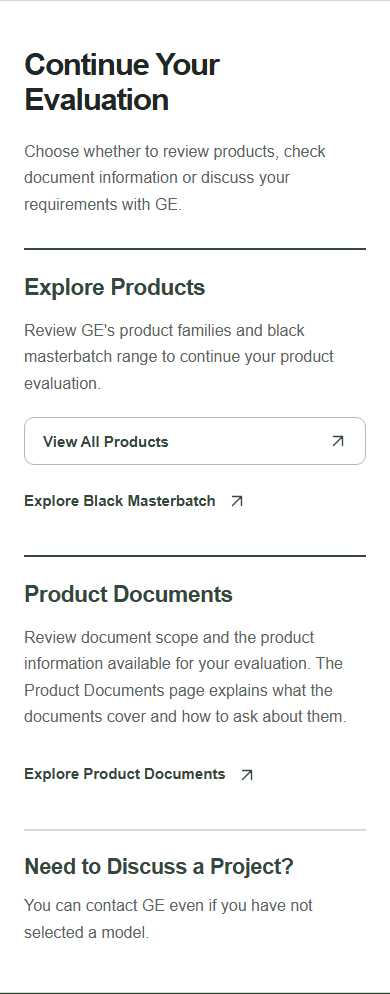
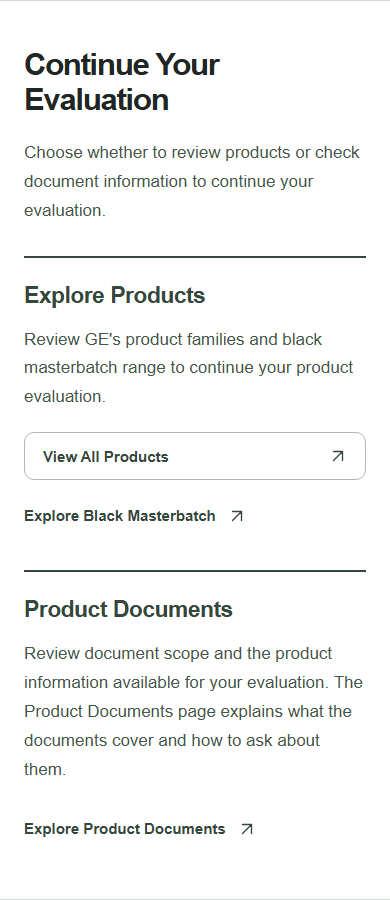
Refine P008 application visuals and evaluation paths

Changed region(s): [[0.0615, 0.4978, 0.9231, 0.9644], [0.0615, 0.0311, 0.9231, 0.4667], [0.0, 0.9956, 1.0, 1.0]]

diff --git a/planning/visuals/P008/p008-visual.html b/planning/visuals/P008/p008-visual.html
@@ -1,6 +1,6 @@
 <!doctype html><html lang="en"><head><meta charset="utf-8"><meta name="viewport" content="width=device-width, initial-scale=1"><title>Masterbatch Application Information | GE Chemical</title><meta name="description" content="Find masterbatch application topics for film, injection molding, extrusion and recycled PE/PP. Continue to GE products, document information or inquiry."><link rel="icon" href="../P001/assets/ge-brandmark-candidate.png"><link rel="stylesheet" href="p008-visual.css"></head><body><header class="site-header" data-shared-chrome><div class="shell header-inner"><a class="brand" href="/" aria-label="GE Chemical homepage"><img src="../P001/assets/ge-logo-candidate.png" alt="GE Chemical &amp; Polymer Group Co., Ltd."></a><nav class="desktop-nav" aria-label="Primary navigation"><a href="/products/black-masterbatch">Black Masterbatch</a><a href="/products">Products</a><a href="/applications" aria-current="page">Applications</a><a href="/about">About GE</a></nav><div class="tablet-inquiry"><a class="btn primary header-cta" href="/rfq">Discuss Your Requirements<svg class="ui-icon" aria-hidden="true" focusable="false" xmlns="http://www.w3.org/2000/svg" viewBox="0 0 24 24" fill="none" stroke="currentColor" stroke-width="1.8" stroke-linecap="round" stroke-linejoin="round"><path d="M6 18 18 6M6 6h12v12"/></svg></a></div><details class="mobile-menu"><summary>Menu <span class="menu-open"><svg class="ui-icon" aria-hidden="true" focusable="false" xmlns="http://www.w3.org/2000/svg" viewBox="0 0 24 24" fill="none" stroke="currentColor" stroke-width="1.8" stroke-linecap="round" stroke-linejoin="round"><path d="M4 6h16M4 12h16M4 18h16"/></svg></span><span class="menu-close"><svg class="ui-icon" aria-hidden="true" focusable="false" xmlns="http://www.w3.org/2000/svg" viewBox="0 0 24 24" fill="none" stroke="currentColor" stroke-width="1.8" stroke-linecap="round" stroke-linejoin="round"><path d="m6 6 12 12M18 6 6 18"/></svg></span></summary><nav aria-label="Mobile navigation"><a href="/products/black-masterbatch">Black Masterbatch</a><a href="/products">Products</a><a href="/applications" aria-current="page">Applications</a><a href="/about">About GE</a><a class="btn primary header-cta" href="/rfq">Discuss Your Requirements<svg class="ui-icon" aria-hidden="true" focusable="false" xmlns="http://www.w3.org/2000/svg" viewBox="0 0 24 24" fill="none" stroke="currentColor" stroke-width="1.8" stroke-linecap="round" stroke-linejoin="round"><path d="M6 18 18 6M6 6h12v12"/></svg></a></nav></details></div></header><main><section class="hero module"><div class="shell hero-layout"><div class="hero-copy"><h1>Masterbatch Application Information</h1>
 <p>Explore the application topic closest to your project, then continue to relevant GE product information, document information or a discussion with our team.</p>
-</div><div class="topic-art" aria-hidden="true"><div class="art-cross"></div><span class="art-node"><svg class="ui-icon" aria-hidden="true" focusable="false" xmlns="http://www.w3.org/2000/svg" viewBox="0 0 24 24" fill="none" stroke="currentColor" stroke-width="1.8" stroke-linecap="round" stroke-linejoin="round"><ellipse cx="7" cy="12" rx="4" ry="8"/><ellipse cx="7" cy="12" rx="1.2" ry="3"/><path d="M7 4h9c3 0 5 4 5 8s-2 8-5 8H7m14-8v8h-5"/></svg></span><span class="art-node"><svg class="ui-icon" aria-hidden="true" focusable="false" xmlns="http://www.w3.org/2000/svg" viewBox="0 0 24 24" fill="none" stroke="currentColor" stroke-width="1.8" stroke-linecap="round" stroke-linejoin="round"><path d="M3 20h18M4 20V6h5v14M15 20V6h5v14M9 10h6m-3-7v7m-3 6h6"/><path d="M10 3h4m-3 9h2v4h-2z"/></svg></span><span class="art-node"><svg class="ui-icon" aria-hidden="true" focusable="false" xmlns="http://www.w3.org/2000/svg" viewBox="0 0 24 24" fill="none" stroke="currentColor" stroke-width="1.8" stroke-linecap="round" stroke-linejoin="round"><path d="M3 9h11v6H3zM14 10h4v4h-4M18 12h4M5 9V5h6v4"/><path d="M5 18h9m-6-3v3m6-3v3"/></svg></span><span class="art-node"><svg class="ui-icon" aria-hidden="true" focusable="false" xmlns="http://www.w3.org/2000/svg" viewBox="0 0 24 24" fill="none" stroke="currentColor" stroke-width="1.8" stroke-linecap="round" stroke-linejoin="round"><path d="m8 4 4-2 4 7m-4-7 4 7m0 0-4-1m4 1 1-4M20 11l2 4-7 4m7-4-7 4m0 0 1-4m-1 4 4 1M11 21H7L3 14m4 7-4-7m0 0 4 1m-4-1-1 4"/></svg></span></div></div></section><section class="topics module"><div class="shell"><div class="section-intro"><h2>Find Your Application Topic</h2>
+</div><div class="topic-art"><div class="art-node"><svg class="ui-icon" aria-hidden="true" focusable="false" xmlns="http://www.w3.org/2000/svg" viewBox="0 0 24 24" fill="none" stroke="currentColor" stroke-width="1.8" stroke-linecap="round" stroke-linejoin="round"><ellipse cx="7" cy="12" rx="4" ry="8"/><ellipse cx="7" cy="12" rx="1.2" ry="3"/><path d="M7 4h9c3 0 5 4 5 8s-2 8-5 8H7m14-8v8h-5"/></svg><span class="art-label">Film</span></div><div class="art-node"><svg class="ui-icon" aria-hidden="true" focusable="false" xmlns="http://www.w3.org/2000/svg" viewBox="0 0 24 24" fill="none" stroke="currentColor" stroke-width="1.8" stroke-linecap="round" stroke-linejoin="round"><path d="M3 20h18M4 20V6h5v14M15 20V6h5v14M9 10h6m-3-7v7m-3 6h6"/><path d="M10 3h4m-3 9h2v4h-2z"/></svg><span class="art-label">Injection</span></div><div class="art-node"><svg class="ui-icon" aria-hidden="true" focusable="false" xmlns="http://www.w3.org/2000/svg" viewBox="0 0 24 24" fill="none" stroke="currentColor" stroke-width="1.8" stroke-linecap="round" stroke-linejoin="round"><path d="M3 9h11v6H3zM14 10h4v4h-4M18 12h4M5 9V5h6v4"/><path d="M5 18h9m-6-3v3m6-3v3"/></svg><span class="art-label">Extrusion</span></div><div class="art-node"><svg class="ui-icon" aria-hidden="true" focusable="false" xmlns="http://www.w3.org/2000/svg" viewBox="0 0 24 24" fill="none" stroke="currentColor" stroke-width="1.8" stroke-linecap="round" stroke-linejoin="round"><path d="m8 4 4-2 4 7m-4-7 4 7m0 0-4-1m4 1 1-4M20 11l2 4-7 4m7-4-7 4m0 0 1-4m-1 4 4 1M11 21H7L3 14m4 7-4-7m0 0 4 1m-4-1-1 4"/></svg><span class="art-label">Recycled PE/PP</span></div></div></div></section><section class="topics module"><div class="shell"><div class="section-intro"><h2>Find Your Application Topic</h2>
 <p>Use these topics to identify the kind of application question you want to explore.</p>
 </div><div class="topic-list"><article class="topic-row"><div class="topic-symbol" aria-hidden="true"><svg class="ui-icon" aria-hidden="true" focusable="false" xmlns="http://www.w3.org/2000/svg" viewBox="0 0 24 24" fill="none" stroke="currentColor" stroke-width="1.8" stroke-linecap="round" stroke-linejoin="round"><ellipse cx="7" cy="12" rx="4" ry="8"/><ellipse cx="7" cy="12" rx="1.2" ry="3"/><path d="M7 4h9c3 0 5 4 5 8s-2 8-5 8H7m14-8v8h-5"/></svg></div><div class="topic-name"><h3>Packaging Film &amp; Blown Film</h3>
 </div><div class="topic-description"><p>Film processing and packaging-film end use are distinct contexts. This topic covers the product-information questions associated with each.</p>
@@ -11,7 +11,7 @@
 </div></article><article class="topic-row"><div class="topic-symbol" aria-hidden="true"><svg class="ui-icon" aria-hidden="true" focusable="false" xmlns="http://www.w3.org/2000/svg" viewBox="0 0 24 24" fill="none" stroke="currentColor" stroke-width="1.8" stroke-linecap="round" stroke-linejoin="round"><path d="m8 4 4-2 4 7m-4-7 4 7m0 0-4-1m4 1 1-4M20 11l2 4-7 4m7-4-7 4m0 0 1-4m-1 4 4 1M11 21H7L3 14m4 7-4-7m0 0 4 1m-4-1-1 4"/></svg></div><div class="topic-name"><h3>Recycled PE/PP</h3>
 </div><div class="topic-description"><p>Explore product information in the context of recycled PE or PP and the intended end product.</p>
 </div></article></div></div></section><section class="evaluation module"><div class="shell"><div class="section-intro"><h2>Continue Your Evaluation</h2>
-<p>Choose whether to review products, check document information or discuss your requirements with GE.</p>
+<p>Choose whether to review products or check document information to continue your evaluation.</p>
 </div><div class="evaluation-grid"><article class="evaluation-path path-0"><h3>Explore Products</h3>
 <p>Review GE&#39;s product families and black masterbatch range to continue your product evaluation.</p>
 <p class="action"><a class="btn secondary" href="/products/">View All Products<svg class="ui-icon" aria-hidden="true" focusable="false" xmlns="http://www.w3.org/2000/svg" viewBox="0 0 24 24" fill="none" stroke="currentColor" stroke-width="1.8" stroke-linecap="round" stroke-linejoin="round"><path d="M6 18 18 6M6 6h12v12"/></svg></a></p>
@@ -19,8 +19,6 @@
 </article><article class="evaluation-path path-1"><h3>Product Documents</h3>
 <p>Review document scope and the product information available for your evaluation. The Product Documents page explains what the documents cover and how to ask about them.</p>
 <p class="action"><a class="text-link" href="/documents/">Explore Product Documents<svg class="ui-icon" aria-hidden="true" focusable="false" xmlns="http://www.w3.org/2000/svg" viewBox="0 0 24 24" fill="none" stroke="currentColor" stroke-width="1.8" stroke-linecap="round" stroke-linejoin="round"><path d="M6 18 18 6M6 6h12v12"/></svg></a></p>
-</article><article class="evaluation-path path-2"><h3>Need to Discuss a Project?</h3>
-<p>You can contact GE even if you have not selected a model.</p>
 </article></div></div></section><section class="closing module"><div class="shell section-grid"><div class="section-heading"><h2>Discuss Your Application Requirements</h2>
 </div><div class="section-body"><p>Share the application or product context you already know with GE.</p>
 <p class="action"><a class="btn primary" href="/rfq/">Discuss Your Requirements<svg class="ui-icon" aria-hidden="true" focusable="false" xmlns="http://www.w3.org/2000/svg" viewBox="0 0 24 24" fill="none" stroke="currentColor" stroke-width="1.8" stroke-linecap="round" stroke-linejoin="round"><path d="M6 18 18 6M6 6h12v12"/></svg></a></p>

diff --git a/planning/visuals/P008/p008-visual.css b/planning/visuals/P008/p008-visual.css
@@ -11,6 +11,7 @@ h1{font-size:66px;margin-bottom:28px}
 h2{font-size:40px;margin-bottom:22px}
 h3{font-size:25px;margin-bottom:18px;letter-spacing:-.025em}
 p{color:var(--muted);margin-bottom:20px}
+main p{font-size:18px;line-height:1.7;color:#47564b}
 .shell{max-width:1280px;margin:auto;padding:0 64px}
 .module{border-bottom:1px solid var(--line)}
 .module>.shell{padding-top:82px;padding-bottom:82px}
@@ -35,14 +36,12 @@ p{color:var(--muted);margin-bottom:20px}
 .tablet-inquiry{display:flex}.header-cta{white-space:nowrap}
 .mobile-menu{display:none}
 .hero{background:#fff}
-.hero-layout{display:grid;grid-template-columns:1fr 260px;align-items:center;gap:65px}
+.hero-layout{display:grid;grid-template-columns:minmax(0,1fr) 300px;align-items:center;gap:48px}
 .hero-copy{max-width:825px}
-.hero-copy p{font-size:21px;line-height:1.55;color:var(--green);max-width:760px;margin-bottom:0}
-.topic-art{height:260px;display:grid;grid-template-columns:1fr 1fr;gap:32px;align-content:center;justify-items:center;position:relative;background:#eef1e8;border:1px solid #e0e6d8;border-radius:50%;padding:28px;transform:rotate(-7deg)}
-.art-cross{position:absolute;inset:60px;transform:rotate(7deg)}
-.art-cross:before,.art-cross:after{content:"";position:absolute;background:#a3b693}
-.art-cross:before{height:1px;width:100%;top:50%}.art-cross:after{width:1px;height:100%;left:50%}
-.art-node{width:68px;height:68px;display:flex;align-items:center;justify-content:center;background:#fff;border:1px solid #cdd8c4;border-radius:18px;z-index:1;transform:rotate(7deg);color:var(--green)}
+.hero-copy p{font-size:21px;line-height:1.6;color:var(--green);max-width:38ch;margin-bottom:0}
+.topic-art{width:100%;display:grid;grid-template-columns:repeat(2,minmax(0,1fr));gap:12px}
+.art-node{min-width:0;min-height:112px;display:flex;flex-direction:column;gap:12px;align-items:center;justify-content:center;background:var(--paper);border:1px solid var(--line);border-radius:12px;padding:20px 12px;color:var(--green)}
+.art-label{font-size:15px;line-height:1.4;font-weight:600;text-align:center}
 .art-node .ui-icon{width:32px;height:32px}
 .topics{background:var(--paper)}
 .section-intro{margin-bottom:36px}
@@ -54,15 +53,12 @@ p{color:var(--muted);margin-bottom:20px}
 .topic-name{padding-top:8px}
 .topic-name h3{color:var(--green);margin-bottom:0;max-width:285px}
 .topic-description{padding-top:5px}
-.topic-description p{margin-bottom:0;max-width:650px}
+.topic-description p{margin-bottom:0;max-width:58ch}
 .evaluation{background:#fff}
-.evaluation-grid{display:grid;grid-template-columns:1.15fr 1.15fr .9fr;gap:38px}
+.evaluation-grid{display:grid;grid-template-columns:repeat(2,minmax(0,1fr));gap:48px}
 .evaluation-path{border-top:2px solid var(--green);padding-top:26px}
 .evaluation-path h3{color:var(--green)}
-.evaluation-path>p:not(.action){font-size:16px}
-.evaluation-path.path-2{border-color:var(--line)}
-.evaluation-path.path-2 h3{font-size:22px}
-.evaluation-path.path-2 p{margin-bottom:0}
+.evaluation-path>p:not(.action){max-width:48ch}
 .section-grid{display:grid;grid-template-columns:.95fr 1.05fr;align-items:center;gap:72px}
 .closing{background:var(--green);border:0;color:#fff}
 .closing h2{max-width:470px;margin:0}
@@ -80,9 +76,9 @@ p{color:var(--muted);margin-bottom:20px}
 .footer-column nav{display:flex;flex-direction:column;align-items:flex-start;gap:12px}
 .footer-column a{font-size:14px;line-height:1.5;color:#cbd4cc;text-decoration:none}
 @media(max-width:1100px){.desktop-nav{display:none}.tablet-inquiry{margin-left:auto}.mobile-menu{display:block}.mobile-menu summary{display:flex;align-items:center;gap:10px;list-style:none;cursor:pointer;min-height:48px;font-size:14px}.mobile-menu summary::-webkit-details-marker{display:none}.mobile-menu nav{position:absolute;left:36px;right:36px;top:calc(100% - 1px);z-index:5;background:var(--paper);border:1px solid var(--line);border-radius:0 0 12px 12px;padding:18px 22px;box-shadow:0 10px 18px #20262315}.mobile-menu nav>a:not(.btn){display:block;text-decoration:none;font-size:17px;line-height:1.4;padding:14px 0;border-bottom:1px solid var(--line)}.mobile-menu nav .btn{margin-top:18px}.menu-close,.mobile-menu[open] .menu-open{display:none}.mobile-menu[open] .menu-close{display:inline}.footer-grid{grid-template-columns:1fr 1fr;gap:35px 50px}.topic-row{grid-template-columns:56px 260px 1fr;gap:24px}}
-@media(max-width:1000px){.shell{padding-left:36px;padding-right:36px}.module>.shell{padding-top:60px;padding-bottom:60px}h1{font-size:49px}h2{font-size:33px}.hero-layout{grid-template-columns:1fr}.hero-copy{max-width:780px}.hero-copy p{font-size:20px}.topic-art{display:none}.topic-row{grid-template-columns:56px 230px 1fr;gap:24px}.topic-name h3{font-size:23px}.topic-symbol{width:52px;height:52px}.evaluation-grid{grid-template-columns:1fr 1fr;gap:32px}.evaluation-path.path-2{grid-column:1/-1;display:grid;grid-template-columns:1fr 1fr;gap:32px;padding-top:23px}.evaluation-path.path-2 h3{margin:0}.section-grid{gap:35px}.footer-grid{padding-top:46px;padding-bottom:46px}}
+@media(max-width:1000px){.shell{padding-left:36px;padding-right:36px}.module>.shell{padding-top:60px;padding-bottom:60px}h1{font-size:49px}h2{font-size:33px}.hero-layout{grid-template-columns:1fr;gap:32px}.hero-copy{max-width:780px}.hero-copy p{font-size:20px}.topic-art{max-width:360px}.topic-row{grid-template-columns:56px 230px 1fr;gap:24px}.topic-name h3{font-size:23px}.topic-symbol{width:52px;height:52px}.evaluation-grid{gap:32px}.section-grid{gap:35px}.footer-grid{padding-top:46px;padding-bottom:46px}}
 @media(max-width:860px){.topic-row{grid-template-columns:52px 1fr;gap:10px 22px}.topic-symbol{grid-row:1/3}.topic-name{padding-top:5px}.topic-name h3{max-width:none}.topic-description{grid-column:2;padding-top:0}.section-grid{grid-template-columns:1fr;gap:24px}.closing h2{max-width:700px}}
 @media(max-width:760px){.tablet-inquiry{display:none}.mobile-menu{margin-left:auto}.mobile-menu nav .btn{width:100%}}
-@media(max-width:600px){body{font-size:16px}.shell{padding-left:24px;padding-right:24px}.header-inner{min-height:82px}.brand{width:238px;height:68px}.mobile-menu summary{font-size:13px}.mobile-menu nav{left:24px;right:24px;padding:14px 20px}.module>.shell{padding-top:46px;padding-bottom:46px}h1{font-size:43px;line-height:1.07;letter-spacing:-.045em}h2{font-size:31px}h3{font-size:23px}.hero-copy p{font-size:18px}.section-intro{margin-bottom:30px}.topic-row{grid-template-columns:42px 1fr;gap:10px 16px;padding:26px 0}.topic-symbol{width:42px;height:42px;border-radius:12px}.topic-symbol .ui-icon{width:24px;height:24px}.topic-name{padding-top:4px}.topic-name h3{font-size:23px;line-height:1.18}.topic-description p{font-size:16px;line-height:1.6}.evaluation-grid{grid-template-columns:1fr;gap:30px}.evaluation-path{padding-top:24px}.evaluation-path.path-2{grid-column:auto;display:block;padding-top:24px}.evaluation-path.path-2 h3{margin-bottom:14px}.evaluation-path .btn{width:100%}.section-grid{gap:22px}.closing .btn{width:100%}.footer-grid{grid-template-columns:1fr;gap:28px;padding-top:36px;padding-bottom:36px}.footer-identity .brand{width:290px;height:86px}.footer-identity .btn{width:100%}.footer-title{font-size:16px;margin-bottom:12px}.footer-column a{font-size:15px}}
+@media(max-width:600px){body{font-size:16px}main p{font-size:17px}.shell{padding-left:24px;padding-right:24px}.header-inner{min-height:82px}.brand{width:238px;height:68px}.mobile-menu summary{font-size:13px}.mobile-menu nav{left:24px;right:24px;padding:14px 20px}.module>.shell{padding-top:46px;padding-bottom:46px}h1{font-size:43px;line-height:1.07;letter-spacing:-.045em}h2{font-size:31px}h3{font-size:23px}.hero-copy p{font-size:19px}.section-intro{margin-bottom:30px}.topic-row{grid-template-columns:42px 1fr;gap:10px 16px;padding:26px 0}.topic-symbol{width:42px;height:42px;border-radius:12px}.topic-symbol .ui-icon{width:24px;height:24px}.topic-name{padding-top:4px}.topic-name h3{font-size:23px;line-height:1.18}.evaluation-grid{grid-template-columns:1fr;gap:30px}.evaluation-path{padding-top:24px}.evaluation-path .btn{width:100%}.section-grid{gap:22px}.closing .btn{width:100%}.footer-grid{grid-template-columns:1fr;gap:28px;padding-top:36px;padding-bottom:36px}.footer-identity .brand{width:290px;height:86px}.footer-identity .btn{width:100%}.footer-title{font-size:16px;margin-bottom:12px}.footer-column a{font-size:15px}}
 @media(max-width:360px){.brand{width:190px;height:55px}h1{font-size:38px}}
 @media(prefers-reduced-motion:reduce){html{scroll-behavior:auto}.btn{transition:none}}

diff --git a/wp-content/themes/site-starter/assets/applications.css b/wp-content/themes/site-starter/assets/applications.css
@@ -9,18 +9,16 @@
 .ge-p008 h1{font-size:66px;max-width:none;margin-bottom:28px}
 .ge-p008 h2{font-size:40px;margin-bottom:22px}
 .ge-p008 h3{font-size:25px;letter-spacing:-.025em;margin-bottom:18px}
-.ge-p008 p{margin-bottom:20px}
+.ge-p008 p{margin-bottom:20px;font-size:18px;line-height:1.7;color:#47564b}
 .ge-p008 .ge-actions{margin:12px 0 0}
 .ge-p008 .is-style-ge-text .wp-block-button__link{gap:12px;font-size:15px}
 .ge-p008-m1{background:#fff}
-.ge-p008-hero-grid{display:grid;grid-template-columns:1fr 260px;align-items:center;gap:65px}
+.ge-p008-hero-grid{display:grid;grid-template-columns:minmax(0,1fr) 300px;align-items:center;gap:48px}
 .ge-p008-hero-copy{max-width:825px}
-.ge-p008-hero-copy p{font-size:21px;line-height:1.55;color:var(--green);max-width:760px;margin-bottom:0}
-.ge-p008-topic-art{height:260px;display:grid;grid-template-columns:1fr 1fr;gap:32px;align-content:center;justify-items:center;position:relative;background:#eef1e8;border:1px solid #e0e6d8;border-radius:50%;padding:28px;transform:rotate(-7deg)}
-.ge-p008-art-cross{position:absolute;inset:60px;transform:rotate(7deg)}
-.ge-p008-art-cross:before,.ge-p008-art-cross:after{content:'';position:absolute;background:#a3b693}
-.ge-p008-art-cross:before{height:1px;width:100%;top:50%}.ge-p008-art-cross:after{width:1px;height:100%;left:50%}
-.ge-p008-art-node{width:68px;height:68px;display:flex;align-items:center;justify-content:center;background:#fff;border:1px solid #cdd8c4;border-radius:18px;z-index:1;transform:rotate(7deg)}
+.ge-p008-hero-copy p{font-size:21px;line-height:1.6;color:var(--green);max-width:38ch;margin-bottom:0}
+.ge-p008-topic-art{width:100%;display:grid;grid-template-columns:repeat(2,minmax(0,1fr));gap:12px}
+.ge-p008-art-node{min-width:0;min-height:112px;display:flex;flex-direction:column;gap:12px;align-items:center;justify-content:center;background:var(--paper);border:1px solid var(--line);border-radius:12px;padding:20px 12px}
+.ge-p008 .ge-p008-art-label{font-size:15px;line-height:1.4;font-weight:600;color:var(--green);text-align:center;margin:0}
 .ge-p008-art-node:before,.ge-p008-topic-symbol:before{content:'';display:block;background:var(--green);mask:center/contain no-repeat;width:32px;height:32px}
 .ge-p008-film:before{mask-image:url('icons/film.svg')}.ge-p008-injection:before{mask-image:url('icons/injection.svg')}.ge-p008-extrusion:before{mask-image:url('icons/extrusion.svg')}.ge-p008-recycle:before{mask-image:url('icons/recycle.svg')}
 .ge-p008-m2{background:var(--paper)}
@@ -33,15 +31,12 @@
 .ge-p008-topic-name{padding-top:8px}
 .ge-p008-topic-name h3{color:var(--green);margin-bottom:0;max-width:285px}
 .ge-p008-topic-description{padding-top:5px}
-.ge-p008-topic-description p{margin-bottom:0;max-width:650px}
+.ge-p008-topic-description p{margin-bottom:0;max-width:58ch}
 .ge-p008-m3{background:#fff}
-.ge-p008-evaluation-grid{display:grid;grid-template-columns:1.15fr 1.15fr .9fr;gap:38px}
+.ge-p008-evaluation-grid{display:grid;grid-template-columns:repeat(2,minmax(0,1fr));gap:48px}
 .ge-p008-evaluation-path{border-top:2px solid var(--green);padding-top:26px}
 .ge-p008-evaluation-path h3{color:var(--green)}
-.ge-p008-evaluation-path>p{font-size:16px}
-.ge-p008-evaluation-path.ge-p008-path-2{border-color:var(--line)}
-.ge-p008-path-2 h3{font-size:22px}
-.ge-p008-path-2 p{margin-bottom:0}
+.ge-p008-evaluation-path>p{max-width:48ch}
 .ge-p008-section-grid{display:grid;grid-template-columns:.95fr 1.05fr;align-items:center;gap:72px}
 .ge-p008 .ge-p008-m4{background:var(--green);border:0;color:#fff}
 .ge-p008-m4 h2{color:#fff;max-width:470px;margin:0}
@@ -50,7 +45,7 @@
 .ge-p008-m4 .is-style-ge-primary .wp-block-button__link:hover{background:#e0ecb0;border-color:#e0ecb0}
 .ge-p008-m4 a:focus-visible{outline-color:var(--accent)}
 @media(max-width:1100px){.ge-p008-topic-row{grid-template-columns:56px 260px 1fr;gap:24px}}
-@media(max-width:1000px){.ge-p008 .ge-container{padding:60px 36px}.ge-p008 h1{font-size:49px}.ge-p008 h2{font-size:33px}.ge-p008-hero-grid{grid-template-columns:1fr}.ge-p008-hero-copy{max-width:780px}.ge-p008-hero-copy p{font-size:20px}.ge-p008-topic-art{display:none}.ge-p008-topic-row{grid-template-columns:56px 230px 1fr;gap:24px}.ge-p008-topic-name h3{font-size:23px}.ge-p008-topic-symbol{width:52px;height:52px}.ge-p008-evaluation-grid{grid-template-columns:1fr 1fr;gap:32px}.ge-p008-evaluation-path.ge-p008-path-2{grid-column:1/-1;display:grid;grid-template-columns:1fr 1fr;gap:32px;padding-top:23px}.ge-p008-path-2 h3{margin:0}.ge-p008-section-grid{gap:35px}}
+@media(max-width:1000px){.ge-p008 .ge-container{padding:60px 36px}.ge-p008 h1{font-size:49px}.ge-p008 h2{font-size:33px}.ge-p008-hero-grid{grid-template-columns:1fr;gap:32px}.ge-p008-hero-copy{max-width:780px}.ge-p008-hero-copy p{font-size:20px}.ge-p008-topic-art{max-width:360px}.ge-p008-topic-row{grid-template-columns:56px 230px 1fr;gap:24px}.ge-p008-topic-name h3{font-size:23px}.ge-p008-topic-symbol{width:52px;height:52px}.ge-p008-evaluation-grid{gap:32px}.ge-p008-section-grid{gap:35px}}
 @media(max-width:860px){.ge-p008-topic-row{grid-template-columns:52px 1fr;gap:10px 22px}.ge-p008-topic-symbol{grid-row:1/3}.ge-p008-topic-name{padding-top:5px}.ge-p008-topic-name h3{max-width:none}.ge-p008-topic-description{grid-column:2;padding-top:0}.ge-p008-section-grid{grid-template-columns:1fr;gap:24px}.ge-p008-m4 h2{max-width:700px}}
-@media(max-width:600px){.ge-p008 .ge-container{padding:46px 24px}.ge-p008 h1{font-size:43px;line-height:1.07;letter-spacing:-.045em}.ge-p008 h2{font-size:31px}.ge-p008 h3{font-size:23px}.ge-p008-hero-copy p{font-size:18px}.ge-p008 .ge-p008-section-intro{margin-bottom:30px}.ge-p008-topic-row{grid-template-columns:42px 1fr;gap:10px 16px;padding:26px 0}.ge-p008-topic-symbol{width:42px;height:42px;border-radius:12px}.ge-p008-topic-symbol:before{width:24px;height:24px}.ge-p008-topic-name{padding-top:4px}.ge-p008-topic-name h3{font-size:23px;line-height:1.18}.ge-p008-topic-description p{font-size:16px;line-height:1.6}.ge-p008-evaluation-grid{grid-template-columns:1fr;gap:30px}.ge-p008-evaluation-path.ge-p008-path-2{grid-column:auto;display:block;padding-top:24px}.ge-p008-evaluation-path{padding-top:24px}.ge-p008-path-2 h3{margin-bottom:14px}.ge-p008 .ge-actions,.ge-p008 .ge-actions .wp-block-button,.ge-p008 .ge-actions .wp-block-button__link{width:100%}.ge-p008 .ge-actions .wp-block-button__link{justify-content:space-between}.ge-p008 .is-style-ge-text .wp-block-button__link{width:auto}.ge-p008-section-grid{gap:22px}}
+@media(max-width:600px){.ge-p008 .ge-container{padding:46px 24px}.ge-p008 p{font-size:17px}.ge-p008 h1{font-size:43px;line-height:1.07;letter-spacing:-.045em}.ge-p008 h2{font-size:31px}.ge-p008 h3{font-size:23px}.ge-p008-hero-copy p{font-size:19px}.ge-p008 .ge-p008-section-intro{margin-bottom:30px}.ge-p008-topic-row{grid-template-columns:42px 1fr;gap:10px 16px;padding:26px 0}.ge-p008-topic-symbol{width:42px;height:42px;border-radius:12px}.ge-p008-topic-symbol:before{width:24px;height:24px}.ge-p008-topic-name{padding-top:4px}.ge-p008-topic-name h3{font-size:23px;line-height:1.18}.ge-p008-evaluation-grid{grid-template-columns:1fr;gap:30px}.ge-p008-evaluation-path{padding-top:24px}.ge-p008 .ge-actions,.ge-p008 .ge-actions .wp-block-button,.ge-p008 .ge-actions .wp-block-button__link{width:100%}.ge-p008 .ge-actions .wp-block-button__link{justify-content:space-between}.ge-p008 .is-style-ge-text .wp-block-button__link{width:auto}.ge-p008-section-grid{gap:22px}}
 @media(max-width:360px){.ge-p008 h1{font-size:38px}}

diff --git a/planning/pages/P008.md b/planning/pages/P008.md
@@ -1,6 +1,6 @@
 # P008 — 用途索引
 
-Status: ACCEPTED
+Status: REVIEW
 Planning scope accepted by owner: 2026-10-02. The owner confirmed direction, Skeleton, focused Full Copy and Gate 3 appearance on 2026-10-03, then authorized WordPress implementation. Current build scope is the verified main local WordPress instance; final-domain migration and public publication retain their applicable decisions.
 
 ## Identity and ownership
@@ -40,7 +40,7 @@ Planning scope accepted by owner: 2026-10-02. The owner confirmed direction, Ske
 
 ## Readiness and next work
 
-- Receiving activity that may proceed: public-target release review after explicit publication authorization. The owner accepted the local P008 result and authorized completion of its main-local inquiry path; results are recorded below.
+- Receiving activity that may proceed: owner inspection of the focused final visual revision recorded below. Earlier local acceptance applies to the preceding version; public release requires explicit authorization.
 - Direction: independently reviewed as REVIEW_READY and confirmed by the owner on 2026-10-03; staged option A adopted.
 - Content skeleton: independently reviewed as REVIEW_READY and confirmed by the owner on 2026-10-03. Full Copy: focused revision independently reviewed as REVIEW_READY and confirmed by the owner on 2026-10-03.
 - Visual direction: Gate 3 static candidate below approved by the owner on 2026-10-03.
@@ -241,7 +241,7 @@ Explore product information in the context of recycled PE or PP and the intended
 
 ## Continue Your Evaluation
 
-Choose whether to review products, check document information or discuss your requirements with GE.
+Choose whether to review products or check document information to continue your evaluation.
 
 ### Explore Products
 
@@ -256,10 +256,6 @@ Review GE's product families and black masterbatch range to continue your produc
 Review document scope and the product information available for your evaluation. The Product Documents page explains what the documents cover and how to ask about them.
 
 [Explore Product Documents](/documents/)
-
-### Need to Discuss a Project?
-
-You can contact GE even if you have not selected a model.
 
 ## Discuss Your Application Requirements
 
@@ -276,12 +272,11 @@ Share the application or product context you already know with GE.
 | Evaluation / View All Products | P002 `/products/` | Open product-family information; no application-specific product recommendation. |
 | Evaluation / Explore Black Masterbatch | P013 `/products/black-masterbatch/` | Open black masterbatch range/model information; no model selection for the identified topic. |
 | Evaluation / Explore Product Documents | P005 `/documents/` | Open document-scope and inquiry information. Not a file download, a document submission or a delivery promise. |
-| Evaluation / Need to Discuss a Project? | No link or button | Secondary explanation that a model is not needed to contact GE. The inquiry path continues into the closing section, without a duplicated action label. |
 | Closing / Discuss Your Requirements | P006 `/rfq/` | The sole inquiry link and primary inquiry CTA within the P008 body. Open the existing inquiry page; no application prefill, matching or submitted-message outcome is promised. |
 
 The Hero and four topics have no RFQ button. Topic headings are not links in this candidate. P025–P028 can become destinations only after their content is approved and their exact routes are available. No P033 or `/contact` link is activated. P008 has no form, input checklist or new feedback state; P006 owns the inquiry form and its outcomes. Shared Header/Footer actions are outside this page-body register and retain their existing behavior.
 
-### Sources, scope and author self-check — internal
+### Sources, scope and historical author self-check — internal
 
 - Authority: owner-confirmed revised Skeleton, Full Copy authorization above and the owner's subsequent **Task: Revise P008 Applications Gate 2 Full Copy** request. The owner directly authorizes this focused revision to Hero language, topic differentiation and duplicated inquiry messaging; the four-section architecture, H1/title, product/document copy and existing destinations remain unchanged. This correction is not Full Copy approval or Gate 3 authorization.
 - Four-topic identities and question scope: P001's application entrances and P025–P028's assigned responsibilities, with the owner's requested information distinctions. Packaging use remains distinct from film-processing context; injection molding concerns molded parts and their process, with no grade/resin recommendation; General Extrusion identifies projects outside the more specific film/injection topics without claiming every process/product or classifying injection molding as extrusion; recycled PE/PP concerns material context and intended end product, without implying compatibility. No TDS value or grade-to-application relationship is repeated here. Topic descriptions identify categories, not available detailed answers or submission requirements.
@@ -357,3 +352,16 @@ The owner replied **“可以。执行下一步”** to the completed local P008
 - Preflight verified the exact main project/port before writes. A private SQL backup was saved under `backups/p008-next-20261003-105114/`. Synchronization used the shared writer lock and explicit identity/owner/route checks, retained Page IDs on repeat import, preserved existing pages/navigation/privacy-policy selection, and kept SMTP disabled. P006/P011 saved content matches their input payloads; installed Core parsing found 37/14 valid blocks respectively.
 - Visual inspection found a pre-existing P006 desktop introduction placement issue caused by shortcode output bypassing the old wrapper selector. A scoped Theme grid correction keeps the explanation below its heading beside the form. The failing 1440px introduction offset of about 1926px became 143px, with 768/390 checks also passing. This changed presentation only; form/copy/storage/mail behavior is unchanged.
 - Current lifecycle: **ACCEPTED for local P008**, with its local destination gap resolved. P006/P011 retain their separately recorded content, operational and release limits. P008 has not been published to the public IP site. Topic details remain unlinked until their own approval and availability.
+
+## Owner-directed final visual revision — 2026-10-03
+
+Authority: the owner's supplied **Final Visual Revision Pass for P008 Applications Page** directs these exact, limited visual/UX changes to the existing implementation and drawing. This is the current revision scope and supersedes prior descriptions of three Evaluation paths, the secondary contact/unknown-model paragraph, decorative unlabeled Hero circle and hidden tablet/mobile Hero illustration. Earlier Skeleton/review/self-check/acceptance records are historical; they do not approve this unwritten revision in advance.
+
+- **Evaluation:** remove `Need to Discuss a Project?` and its paragraph from the sole current Full Copy boundary and native Page; retain Products and Documents with their three existing links. The introduction now describes those two information paths. The four-section order, closing text/action, H1/title/meta and topic descriptions remain unchanged. No sales replacement or new claim is introduced.
+- **Hero:** replace the rotated pale circle/cross with a compact **2×2** group using the existing approved film/injection/extrusion/recycle icons and visible native labels **Film / Injection / Extrusion / Recycled PE/PP**. Labels supply context only, with no links or product-validation implication. The group stays visible below the Hero copy on tablet/phone. No stock image or new icon is introduced.
+- **Readability:** scoped P008 body copy uses **18px desktop/tablet, 17px phone**, line-height **1.7** and darker **#47564b** on light surfaces. Hero copy keeps its stronger hierarchy at **21/20/19px**, line-height **1.6**, with a **38ch** maximum. Topic descriptions are limited to **58ch**, Evaluation paragraphs to **48ch**. Heading scales and spacing remain; the dark closing retains light text and its existing primary action language.
+- **Preserved:** four open topic rows, exact application wording, no topic links/RFQ/model recommendation/technical promise/status notice; sole strong body inquiry action in the closing; shared Header/Footer/logo/native navigation, Applications current-page state, palettes/actions; SITE_MAP/SEO_MAP and unrelated Page Specs/files/records. Only the P008 drawing, implementation/source and this record were edited.
+- **Runtime:** preflight verified the existing main local target before importing. Page **75** retains explicit P008/GE ownership, slug/status/template and approved SEO; saved content/source hash matched readback. Installed Core serialization roundtrip found no invalid blocks. Independent checks at **1440/768/390** passed exact current copy/link order, visible labeled 2×2 group, two Evaluation paths with desktop/tablet columns and phone stack, 18/17px body text, one H1/four sections/four topics, no topic/Evaluation RFQ, one body inquiry action, assets/logo, no overflow, shared active navigation, keyboard skip/focus and mobile menu. All four body destinations returned 200. Unrelated saved Page hashes, menus and privacy-policy option are unchanged; unrelated routes still return 200 and do not load P008 CSS.
+- **Visual delivery:** refreshed editable `../visuals/P008/draw-p008.cjs`, `p008-visual.css`, `p008-visual.html` and existing full/section exports at 1440/768/390. Drawing checks passed exact copy and action parity, section/topic counts, one inquiry and no overflow. Actual desktop/tablet full screenshots plus readable phone Hero/Evaluation and desktop topic sections were inspected; snapshots remain private under `.local/p008-runtime/`.
+- **Independent review:** separate read-only review returned **REVIEW_READY**, with no Critical/Important findings. It checked the attachment, copy/technical-claim boundaries, code, static shared-markup parity and mobile Hero/tablet Evaluation/desktop topic exports. Its Minor finding was that prior internal notes described the old third path and hidden Hero illustration. Those descriptions are now explicitly historical and superseded by this current revision record; no duplicate content source was created. Runtime checks remain the coordinator's evidence, and review is not owner acceptance or publication authorization.
+- **Remaining scope:** revised visual is ready for owner inspection (**REVIEW**). P025–P028 remain unlinked until approved and live. No form logic/mail operation changed and no new submission was needed for this visual-only pass. Main-local inquiry/privacy routes remain available. Public IP deployment, final-domain migration and release checks remain separate; this revision was not publicly deployed.
